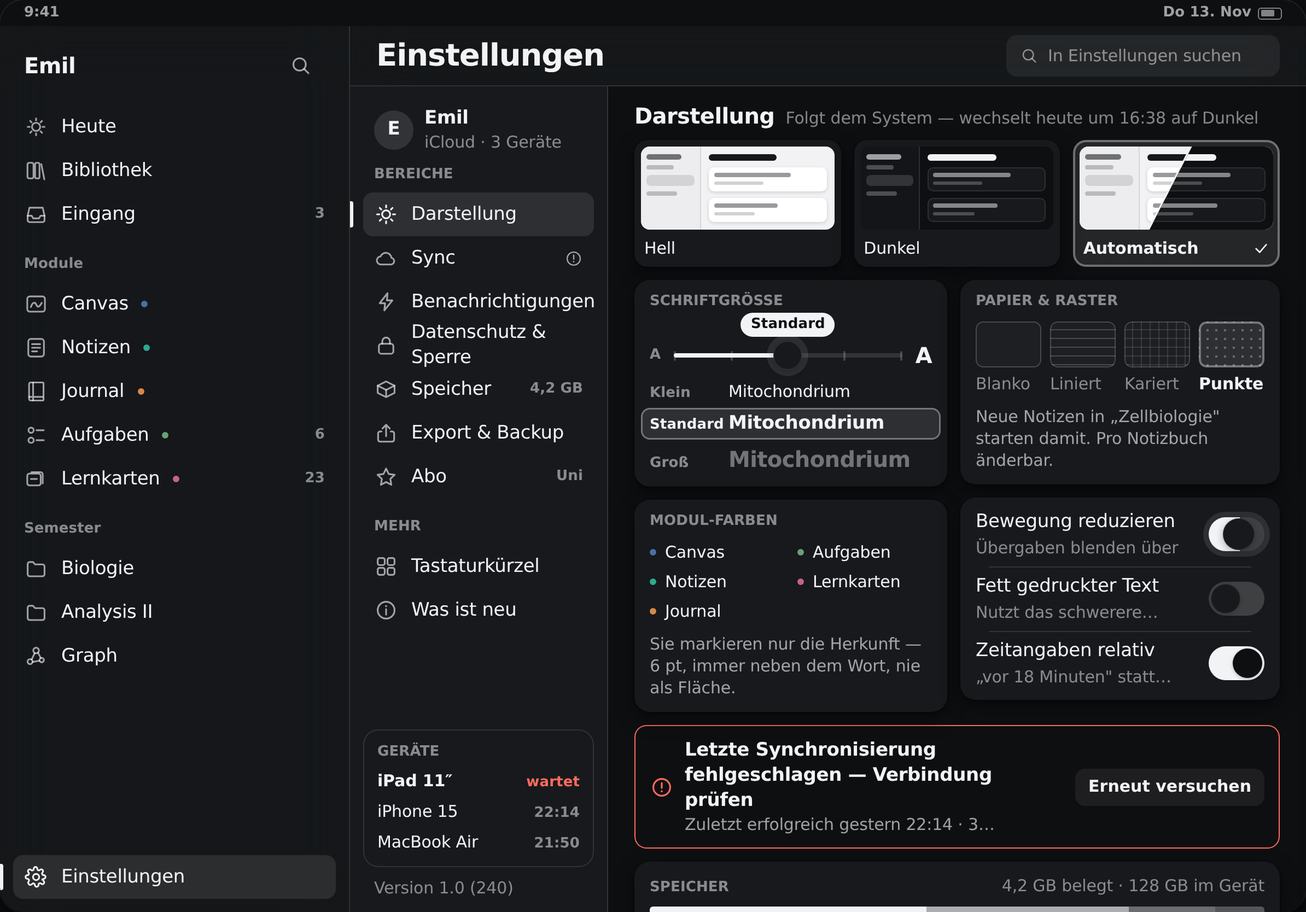
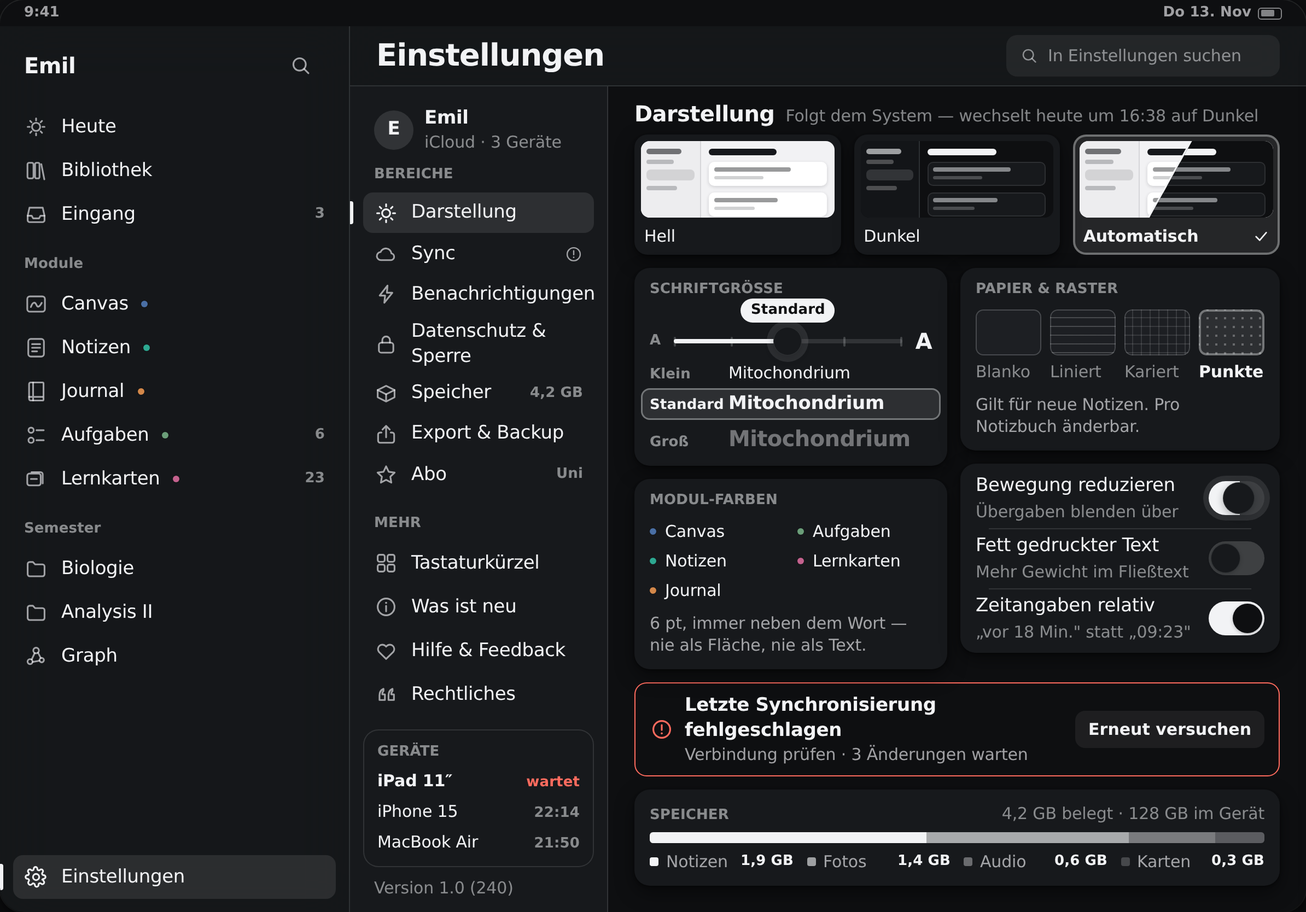
Einstellungen: finale Fassung des Agenten
Der Screen wurde nach meinem Zwischenstand noch einmal überarbeitet. Die
Doppelung am Schriftgrößen-Regler ist damit anders gelöst als von mir: Statt
den Chip umzubenennen, ist er entfallen — Wertblase und Zeilenbeschriftung
überlappen nachweislich nicht mehr. Meine Zwischenkorrektur war damit
hinfällig und ist entfernt.

Abschließender Prüflauf über alle 18 Mockups: keine gekappten Texte, keine
Schriftgröße außerhalb der Fünfer-Skala, keine Seitenfehler, überall beide
Größenklassen vorhanden.

Claude-Session: https://claude.ai/code/session_01JWcNAjygaW1ev1sC5tXzbz

diff --git a/mockups/app-next/settings.html b/mockups/app-next/settings.html
@@ -48,7 +48,7 @@ BEWUSST NICHT ÜBERNOMMEN
 DAS BESONDERE AN DIESEM SCHIRM
 Einstellungen zeigen bei fast allen Apps Schalter ohne Folgen. Hier steht neben
 jedem Regler seine Wirkung: Die Schriftgröße erscheint dreimal als echte Zeile
-(„Mitochondrium") in genau den Stufen der Typo-Skala. „Zeitangaben relativ"
+(„Mitochondrium", auf dem iPhone „Osmose") in genau den Stufen der Skala. „Zeitangaben relativ"
 zeigt das Ergebnis mit („vor 18 Minuten" statt „09:23"). „Bewegung reduzieren"
 sagt, was mit der Übergabe zwischen Modulen passiert — der Signatur-Animation
 dieser App. Und die Modul-Farben werden nicht angeboten, sondern erklärt: fünf
@@ -152,7 +152,7 @@ Skala selbst, keine Simulation.
               <button class="navitem is-active"><span class="ico" data-ico="sun"></span><span class="t-body">Darstellung</span></button>
               <button class="navitem"><span class="ico" data-ico="cloud"></span><span class="t-body">Sync</span><span class="navitem__count" style="color:var(--danger);display:flex;align-items:center"><span class="ico" data-ico="alert" style="width:17px;height:17px"></span></span></button>
               <button class="navitem"><span class="ico" data-ico="bolt"></span><span class="t-body">Benachrichtigungen</span></button>
-              <button class="navitem"><span class="ico" data-ico="lock"></span><span class="t-body">Datenschutz &amp; Sperre</span></button>
+              <button class="navitem" style="height:auto; min-height:40px; padding:5px 10px"><span class="ico" data-ico="lock"></span><span class="t-body">Datenschutz &amp; Sperre</span></button>
               <button class="navitem"><span class="ico" data-ico="box"></span><span class="t-body">Speicher</span><span class="navitem__count t-label num">4,2 GB</span></button>
               <button class="navitem"><span class="ico" data-ico="share"></span><span class="t-body">Export &amp; Backup</span></button>
               <button class="navitem"><span class="ico" data-ico="star"></span><span class="t-body">Abo</span><span class="navitem__count t-label">Uni</span></button>
@@ -161,6 +161,8 @@ Skala selbst, keine Simulation.
                 <div class="sidebar__grouptitle t-label">MEHR</div>
                 <button class="navitem"><span class="ico" data-ico="grid"></span><span class="t-body">Tastaturkürzel</span></button>
                 <button class="navitem"><span class="ico" data-ico="info"></span><span class="t-body">Was ist neu</span></button>
+                <button class="navitem"><span class="ico" data-ico="heart"></span><span class="t-body">Hilfe &amp; Feedback</span></button>
+                <button class="navitem"><span class="ico" data-ico="quote"></span><span class="t-body">Rechtliches</span></button>
               </div>
 
               <!-- Geräte — füllt den Fuß der Spalte und erklärt den Sync-Fehler -->
@@ -188,11 +190,11 @@ Skala selbst, keine Simulation.
 
             <!-- ── Bereich „Darstellung" ── -->
             <div class="content">
-              <div class="scroll" style="padding:14px 24px 16px; display:flex; flex-direction:column; gap:12px">
+              <div class="scroll" style="padding:12px 24px 14px; display:flex; flex-direction:column; gap:12px">
 
                 <!-- ══ Design: drei echte Mini-Screens ══ -->
                 <section>
-                  <div style="display:flex; align-items:baseline; gap:10px; margin-bottom:9px">
+                  <div style="display:flex; align-items:baseline; gap:10px; margin-bottom:6px">
                     <span class="t-section">Darstellung</span>
                     <span class="t-sub c-3">Folgt dem System — wechselt heute um 16:38 auf Dunkel</span>
                   </div>
@@ -200,7 +202,7 @@ Skala selbst, keine Simulation.
 
                     <!-- Hell -->
                     <button style="text-align:left; padding:6px; border-radius:12px; background:var(--paper); box-shadow:var(--sh-card)">
-                      <div style="position:relative; height:76px; border-radius:8px; overflow:hidden; box-shadow:inset 0 0 0 1px rgba(22,24,28,.16)">
+                      <div style="position:relative; height:70px; border-radius:8px; overflow:hidden; box-shadow:inset 0 0 0 1px rgba(22,24,28,.16)">
                         <div style="position:absolute; inset:0; display:flex; background:#F2F2F4">
                           <div style="width:31%; background:#EDEDEF; border-right:1px solid rgba(22,24,28,.10); padding:7px 5px; display:flex; flex-direction:column; gap:5px">
                             <div style="height:5px;width:74%;border-radius:3px;background:rgba(22,24,28,.58)"></div>
@@ -226,7 +228,7 @@ Skala selbst, keine Simulation.
 
                     <!-- Dunkel -->
                     <button style="text-align:left; padding:6px; border-radius:12px; background:var(--paper); box-shadow:var(--sh-card)">
-                      <div style="position:relative; height:76px; border-radius:8px; overflow:hidden; box-shadow:inset 0 0 0 1px rgba(22,24,28,.16)">
+                      <div style="position:relative; height:70px; border-radius:8px; overflow:hidden; box-shadow:inset 0 0 0 1px rgba(22,24,28,.16)">
                         <div style="position:absolute; inset:0; display:flex; background:#0E0F11">
                           <div style="width:31%; background:#131518; border-right:1px solid rgba(242,243,245,.12); padding:7px 5px; display:flex; flex-direction:column; gap:5px">
                             <div style="height:5px;width:74%;border-radius:3px;background:rgba(242,243,245,.62)"></div>
@@ -253,7 +255,7 @@ Skala selbst, keine Simulation.
                     <!-- Automatisch — ausgewählt: Fläche + Ring + Häkchen.
                          Die Kachel zeigt die Überblendung eingefroren. -->
                     <button style="text-align:left; padding:6px; border-radius:12px; background:var(--accent-soft); box-shadow:inset 0 0 0 2px var(--accent-ring)">
-                      <div style="position:relative; height:76px; border-radius:8px; overflow:hidden; box-shadow:inset 0 0 0 1px rgba(22,24,28,.16)">
+                      <div style="position:relative; height:70px; border-radius:8px; overflow:hidden; box-shadow:inset 0 0 0 1px rgba(22,24,28,.16)">
                         <!-- untere Ebene: HELL -->
                         <div style="position:absolute; inset:0; display:flex; background:#F2F2F4">
                           <div style="width:31%; background:#EDEDEF; border-right:1px solid rgba(22,24,28,.10); padding:7px 5px; display:flex; flex-direction:column; gap:5px">
@@ -316,7 +318,7 @@ Skala selbst, keine Simulation.
                       <div class="t-label c-3">SCHRIFTGRÖSSE</div>
 
                       <!-- Regler — Knopf angehoben, Wertblase: er wird gerade gezogen -->
-                      <div style="display:flex; align-items:center; gap:12px; margin:28px 0 10px">
+                      <div style="display:flex; align-items:center; gap:12px; margin:26px 0 6px">
                         <span class="t-label c-3">A</span>
                         <div style="position:relative; flex:1; height:26px; display:flex; align-items:center">
                           <div style="position:absolute; left:0; right:0; height:4px; border-radius:2px; background:var(--fill-2)"></div>
@@ -338,7 +340,7 @@ Skala selbst, keine Simulation.
                         <span class="t-label c-3" style="width:62px; flex:none">Klein</span>
                         <span class="t-sub clamp-1">Mitochondrium</span>
                       </div>
-                      <div style="display:flex; align-items:baseline; gap:10px; padding:3px 8px; margin:5px -8px; border-radius:8px; background:var(--accent-soft); box-shadow:inset 0 0 0 1.5px var(--accent-ring)">
+                      <div style="display:flex; align-items:baseline; gap:10px; padding:3px 8px; margin:4px -8px; border-radius:8px; background:var(--accent-soft); box-shadow:inset 0 0 0 1.5px var(--accent-ring)">
                         <span class="t-label c-1" style="width:62px; flex:none">Standard</span>
                         <span class="t-body is-strong clamp-1">Mitochondrium</span>
                       </div>
@@ -358,7 +360,7 @@ Skala selbst, keine Simulation.
                         <span style="display:flex; align-items:center; gap:8px"><span class="dot dot--cards"></span><span class="t-sub">Lernkarten</span></span>
                         <span style="display:flex; align-items:center; gap:8px"><span class="dot dot--journal"></span><span class="t-sub">Journal</span></span>
                       </div>
-                      <p class="t-sub c-2" style="margin:10px 0 0">Sie markieren nur die Herkunft — 6 pt, immer neben dem Wort, nie als Fläche.</p>
+                      <p class="t-sub c-2" style="margin:10px 0 0">6 pt, immer neben dem Wort — nie als Fläche, nie als Text.</p>
                     </section>
                   </div>
 
@@ -386,12 +388,12 @@ Skala selbst, keine Simulation.
                           <div class="t-sub is-strong" style="margin-top:5px">Punkte</div>
                         </div>
                       </div>
-                      <p class="t-sub c-2" style="margin:10px 0 0">Neue Notizen in „Zellbiologie" starten damit. Pro Notizbuch änderbar.</p>
+                      <p class="t-sub c-2" style="margin:10px 0 0">Gilt für neue Notizen. Pro Notizbuch änderbar.</p>
                     </section>
 
                     <!-- Schalter -->
                     <section class="card" style="padding:4px 14px">
-                      <div class="row" style="padding:7px 0">
+                      <div class="row" style="padding:5px 0">
                         <div class="row__main">
                           <span class="t-body">Bewegung reduzieren</span>
                           <span class="t-sub c-3 clamp-1">Übergaben blenden über</span>
@@ -401,19 +403,19 @@ Skala selbst, keine Simulation.
                           <span style="position:absolute;top:1px;left:13px;width:29px;height:29px;border-radius:50%;background:var(--paper);box-shadow:0 2px 7px rgba(22,24,28,.32), inset 0 0 0 .5px var(--line)"></span>
                         </span>
                       </div>
-                      <div class="row" style="padding:7px 0">
+                      <div class="row" style="padding:5px 0">
                         <div class="row__main">
                           <span class="t-body">Fett gedruckter Text</span>
-                          <span class="t-sub c-3 clamp-1">Nutzt das schwerere Gewicht</span>
+                          <span class="t-sub c-3 clamp-1">Mehr Gewicht im Fließtext</span>
                         </div>
                         <span style="width:51px;height:31px;border-radius:var(--r-pill);flex:none;position:relative;background:var(--fill-3)">
                           <span style="position:absolute;top:2px;left:2px;width:27px;height:27px;border-radius:50%;background:var(--paper);box-shadow:0 1px 3px rgba(22,24,28,.26), inset 0 0 0 .5px var(--line)"></span>
                         </span>
                       </div>
-                      <div class="row" style="padding:7px 0">
+                      <div class="row" style="padding:5px 0">
                         <div class="row__main">
                           <span class="t-body">Zeitangaben relativ</span>
-                          <span class="t-sub c-3 clamp-1">„vor 18 Minuten" statt „09:23"</span>
+                          <span class="t-sub c-3 clamp-1">„vor 18 Min." statt „09:23"</span>
                         </div>
                         <span style="width:51px;height:31px;border-radius:var(--r-pill);flex:none;position:relative;background:var(--accent)">
                           <span style="position:absolute;top:2px;left:22px;width:27px;height:27px;border-radius:50%;background:var(--accent-on);box-shadow:0 1px 3px rgba(22,24,28,.26)"></span>
@@ -424,32 +426,32 @@ Skala selbst, keine Simulation.
                 </div>
 
                 <!-- ══ Sync-Fehler ══ -->
-                <div class="notice notice--error" style="align-items:center">
+                <div class="notice notice--error" style="align-items:center; padding:10px 14px">
                   <span class="ico" data-ico="alert"></span>
                   <div class="notice__text" style="flex:1; min-width:0">
-                    <div class="t-body is-strong">Letzte Synchronisierung fehlgeschlagen — Verbindung prüfen</div>
-                    <div class="t-sub c-2 clamp-1">Zuletzt erfolgreich gestern 22:14 · 3 Änderungen warten</div>
+                    <div class="t-body is-strong">Letzte Synchronisierung fehlgeschlagen</div>
+                    <div class="t-sub c-2 clamp-1">Verbindung prüfen · 3 Änderungen warten</div>
                   </div>
                   <button class="btn btn--sm" style="flex:none">Erneut versuchen</button>
                 </div>
 
                 <!-- ══ Speicher ══ -->
                 <section class="card" style="padding:12px 14px">
-                  <div style="display:flex; align-items:baseline; gap:10px; margin-bottom:9px">
+                  <div style="display:flex; align-items:baseline; gap:10px; margin-bottom:7px">
                     <span class="t-label c-3" style="flex:1">SPEICHER</span>
                     <span class="t-sub c-3 num">4,2 GB belegt · 128 GB im Gerät</span>
                   </div>
                   <div class="bar" style="height:10px; display:flex; gap:0">
                     <span style="width:45%; height:100%; background:var(--ink-1)"></span>
-                    <span style="width:33%; height:100%; background:var(--ink-2)"></span>
-                    <span style="width:14%; height:100%; background:var(--ink-4)"></span>
-                    <span style="width:8%;  height:100%; background:var(--fill-3)"></span>
+                    <span style="width:33%; height:100%; background:var(--ink-1); opacity:.62"></span>
+                    <span style="width:14%; height:100%; background:var(--ink-1); opacity:.38"></span>
+                    <span style="width:8%;  height:100%; background:var(--ink-1); opacity:.22"></span>
                   </div>
-                  <div style="display:grid; grid-template-columns:1fr 1fr 1fr 1fr; gap:12px; margin-top:9px">
+                  <div style="display:grid; grid-template-columns:1fr 1fr 1fr 1fr; gap:12px; margin-top:7px">
                     <span style="display:flex; align-items:center; gap:7px"><span style="width:8px;height:8px;border-radius:2px;background:var(--ink-1);flex:none"></span><span class="t-sub c-2" style="flex:1">Notizen</span><span class="t-label num">1,9 GB</span></span>
-                    <span style="display:flex; align-items:center; gap:7px"><span style="width:8px;height:8px;border-radius:2px;background:var(--ink-2);flex:none"></span><span class="t-sub c-2" style="flex:1">Fotos</span><span class="t-label num">1,4 GB</span></span>
-                    <span style="display:flex; align-items:center; gap:7px"><span style="width:8px;height:8px;border-radius:2px;background:var(--ink-4);flex:none"></span><span class="t-sub c-2" style="flex:1">Audio</span><span class="t-label num">0,6 GB</span></span>
-                    <span style="display:flex; align-items:center; gap:7px"><span style="width:8px;height:8px;border-radius:2px;background:var(--fill-3);flex:none"></span><span class="t-sub c-2" style="flex:1">Lernkarten</span><span class="t-label num">0,3 GB</span></span>
+                    <span style="display:flex; align-items:center; gap:7px"><span style="width:8px;height:8px;border-radius:2px;background:var(--ink-1);opacity:.62;flex:none"></span><span class="t-sub c-2" style="flex:1">Fotos</span><span class="t-label num">1,4 GB</span></span>
+                    <span style="display:flex; align-items:center; gap:7px"><span style="width:8px;height:8px;border-radius:2px;background:var(--ink-1);opacity:.38;flex:none"></span><span class="t-sub c-2" style="flex:1">Audio</span><span class="t-label num">0,6 GB</span></span>
+                    <span style="display:flex; align-items:center; gap:7px"><span style="width:8px;height:8px;border-radius:2px;background:var(--ink-1);opacity:.22;flex:none"></span><span class="t-sub c-2" style="flex:1">Karten</span><span class="t-label num">0,3 GB</span></span>
                   </div>
                 </section>
 
@@ -480,11 +482,11 @@ Skala selbst, keine Simulation.
         <div class="scroll" style="padding:10px 20px 12px; display:flex; flex-direction:column; gap:10px">
 
           <!-- Fehlerzustand als Banner ganz oben -->
-          <div class="notice notice--error" style="align-items:center; padding:9px 12px">
+          <div class="notice notice--error" style="align-items:center; padding:8px 12px">
             <span class="ico" data-ico="alert" style="width:20px;height:20px"></span>
             <div class="notice__text" style="flex:1; min-width:0">
               <div class="t-sub is-strong clamp-1">Sync fehlgeschlagen</div>
-              <div class="t-sub c-2 clamp-1">Verbindung prüfen · 3 warten</div>
+              <div class="t-sub c-2 clamp-1">Verbindung prüfen</div>
             </div>
             <button class="btn btn--sm" style="flex:none; height:30px; padding:0 11px">Erneut</button>
           </div>
@@ -496,7 +498,7 @@ Skala selbst, keine Simulation.
 
               <!-- Hell -->
               <button style="text-align:left; padding:5px; border-radius:11px; background:var(--paper); box-shadow:var(--sh-card)">
-                <div style="position:relative; height:58px; border-radius:7px; overflow:hidden; box-shadow:inset 0 0 0 1px rgba(22,24,28,.16); background:#F2F2F4">
+                <div style="position:relative; height:50px; border-radius:7px; overflow:hidden; box-shadow:inset 0 0 0 1px rgba(22,24,28,.16); background:#F2F2F4">
                   <div style="position:absolute; inset:0; padding:6px 6px 0; display:flex; flex-direction:column; gap:4px">
                     <div style="height:5px;width:56%;border-radius:3px;background:#16181C"></div>
                     <div style="height:14px;border-radius:4px;background:#FFFFFF;box-shadow:0 1px 2px rgba(22,24,28,.16)"></div>
@@ -514,7 +516,7 @@ Skala selbst, keine Simulation.
 
               <!-- Dunkel -->
               <button style="text-align:left; padding:5px; border-radius:11px; background:var(--paper); box-shadow:var(--sh-card)">
-                <div style="position:relative; height:58px; border-radius:7px; overflow:hidden; box-shadow:inset 0 0 0 1px rgba(22,24,28,.16); background:#0E0F11">
+                <div style="position:relative; height:50px; border-radius:7px; overflow:hidden; box-shadow:inset 0 0 0 1px rgba(22,24,28,.16); background:#0E0F11">
                   <div style="position:absolute; inset:0; padding:6px 6px 0; display:flex; flex-direction:column; gap:4px">
                     <div style="height:5px;width:56%;border-radius:3px;background:#F2F3F5"></div>
                     <div style="height:14px;border-radius:4px;background:#17191C;box-shadow:inset 0 0 0 1px rgba(242,243,245,.10)"></div>
@@ -532,7 +534,7 @@ Skala selbst, keine Simulation.
 
               <!-- Automatisch — ausgewählt, Überblendung eingefroren -->
               <button style="text-align:left; padding:5px; border-radius:11px; background:var(--accent-soft); box-shadow:inset 0 0 0 2px var(--accent-ring)">
-                <div style="position:relative; height:58px; border-radius:7px; overflow:hidden; box-shadow:inset 0 0 0 1px rgba(22,24,28,.16); background:#F2F2F4">
+                <div style="position:relative; height:50px; border-radius:7px; overflow:hidden; box-shadow:inset 0 0 0 1px rgba(22,24,28,.16); background:#F2F2F4">
                   <div style="position:absolute; inset:0; padding:6px 6px 0; display:flex; flex-direction:column; gap:4px">
                     <div style="height:5px;width:56%;border-radius:3px;background:#16181C"></div>
                     <div style="height:14px;border-radius:4px;background:#FFFFFF;box-shadow:0 1px 2px rgba(22,24,28,.16)"></div>
@@ -565,7 +567,7 @@ Skala selbst, keine Simulation.
           <!-- Schriftgröße -->
           <section class="card" style="padding:11px 14px 12px">
             <div class="t-label c-3">SCHRIFTGRÖSSE</div>
-            <div style="display:flex; align-items:center; gap:10px; margin:26px 0 10px">
+            <div style="display:flex; align-items:center; gap:10px; margin:26px 0 8px">
               <span class="t-label c-3">A</span>
               <div style="position:relative; flex:1; height:26px; display:flex; align-items:center">
                 <div style="position:absolute; left:0; right:0; height:4px; border-radius:2px; background:var(--fill-2)"></div>
@@ -608,7 +610,7 @@ Skala selbst, keine Simulation.
                 <span class="ico" data-ico="chevR" style="width:16px;height:16px"></span>
               </div>
             </div>
-            <div class="row" style="padding:7px 0">
+            <div class="row" style="padding:5px 0">
               <div class="row__main">
                 <span class="t-body">Modul-Farben</span>
                 <span style="display:flex; flex-wrap:wrap; gap:3px 11px; margin-top:3px">
@@ -621,7 +623,11 @@ Skala selbst, keine Simulation.
               </div>
               <div class="row__meta"><span class="ico" data-ico="chevR" style="width:16px;height:16px"></span></div>
             </div>
-            <div class="row" style="padding:6px 0">
+          </section>
+
+          <!-- Schalter -->
+          <section class="card" style="padding:2px 14px">
+            <div class="row" style="padding:5px 0">
               <div class="row__main">
                 <span class="t-body">Bewegung reduzieren</span>
                 <span class="t-sub c-3 clamp-1">Übergaben blenden über</span>
@@ -631,13 +637,13 @@ Skala selbst, keine Simulation.
                 <span style="position:absolute;top:1px;left:13px;width:29px;height:29px;border-radius:50%;background:var(--paper);box-shadow:0 2px 7px rgba(22,24,28,.32), inset 0 0 0 .5px var(--line)"></span>
               </span>
             </div>
-            <div class="row" style="padding:6px 0; min-height:46px">
+            <div class="row" style="padding:5px 0; min-height:46px">
               <div class="row__main"><span class="t-body">Fett gedruckter Text</span></div>
               <span style="width:51px;height:31px;border-radius:var(--r-pill);flex:none;position:relative;background:var(--fill-3)">
                 <span style="position:absolute;top:2px;left:2px;width:27px;height:27px;border-radius:50%;background:var(--paper);box-shadow:0 1px 3px rgba(22,24,28,.26), inset 0 0 0 .5px var(--line)"></span>
               </span>
             </div>
-            <div class="row" style="padding:6px 0">
+            <div class="row" style="padding:5px 0">
               <div class="row__main">
                 <span class="t-body">Zeitangaben relativ</span>
                 <span class="t-sub c-3 clamp-1">„vor 18 Minuten" statt „09:23"</span>
@@ -648,23 +654,23 @@ Skala selbst, keine Simulation.
             </div>
           </section>
 
-          <!-- Speicher -->
-          <section class="card" style="padding:11px 14px 12px">
+          <!-- Speicher — beginnt unterhalb der Falz; die Liste scrollt weiter -->
+          <section class="card" style="margin-top:14px; padding:11px 14px 12px">
             <div style="display:flex; align-items:baseline; gap:8px; margin-bottom:8px">
               <span class="t-label c-3" style="flex:1">SPEICHER</span>
               <span class="t-sub c-3 num">4,2 von 128 GB</span>
             </div>
             <div class="bar" style="height:10px; display:flex; gap:0">
               <span style="width:45%; height:100%; background:var(--ink-1)"></span>
-              <span style="width:33%; height:100%; background:var(--ink-2)"></span>
-              <span style="width:14%; height:100%; background:var(--ink-4)"></span>
-              <span style="width:8%;  height:100%; background:var(--fill-3)"></span>
+              <span style="width:33%; height:100%; background:var(--ink-1); opacity:.62"></span>
+              <span style="width:14%; height:100%; background:var(--ink-1); opacity:.38"></span>
+              <span style="width:8%;  height:100%; background:var(--ink-1); opacity:.22"></span>
             </div>
             <div style="display:grid; grid-template-columns:1fr 1fr; gap:5px 14px; margin-top:8px">
               <span style="display:flex; align-items:center; gap:7px"><span style="width:8px;height:8px;border-radius:2px;background:var(--ink-1);flex:none"></span><span class="t-sub c-2" style="flex:1">Notizen</span><span class="t-label num">1,9 GB</span></span>
-              <span style="display:flex; align-items:center; gap:7px"><span style="width:8px;height:8px;border-radius:2px;background:var(--ink-2);flex:none"></span><span class="t-sub c-2" style="flex:1">Fotos</span><span class="t-label num">1,4 GB</span></span>
-              <span style="display:flex; align-items:center; gap:7px"><span style="width:8px;height:8px;border-radius:2px;background:var(--ink-4);flex:none"></span><span class="t-sub c-2" style="flex:1">Audio</span><span class="t-label num">0,6 GB</span></span>
-              <span style="display:flex; align-items:center; gap:7px"><span style="width:8px;height:8px;border-radius:2px;background:var(--fill-3);flex:none"></span><span class="t-sub c-2" style="flex:1">Lernkarten</span><span class="t-label num">0,3 GB</span></span>
+              <span style="display:flex; align-items:center; gap:7px"><span style="width:8px;height:8px;border-radius:2px;background:var(--ink-1);opacity:.62;flex:none"></span><span class="t-sub c-2" style="flex:1">Fotos</span><span class="t-label num">1,4 GB</span></span>
+              <span style="display:flex; align-items:center; gap:7px"><span style="width:8px;height:8px;border-radius:2px;background:var(--ink-1);opacity:.38;flex:none"></span><span class="t-sub c-2" style="flex:1">Audio</span><span class="t-label num">0,6 GB</span></span>
+              <span style="display:flex; align-items:center; gap:7px"><span style="width:8px;height:8px;border-radius:2px;background:var(--ink-1);opacity:.22;flex:none"></span><span class="t-sub c-2" style="flex:1">Karten</span><span class="t-label num">0,3 GB</span></span>
             </div>
           </section>
 
@@ -739,9 +745,10 @@ Skala selbst, keine Simulation.
     <tr><td>gefüllt</td><td>Der gezeigte Zustand: Design „Automatisch", Schrift „Standard", Papier „Punkte", drei Schalter, 4,2 GB belegt.</td></tr>
     <tr><td>aktiv</td><td>„Einstellungen" in der App-Sidebar und „Darstellung" in der Bereichsliste: Fläche + Gewicht + Ink-Balken links — drei Merkmale, keine Farbe.</td></tr>
     <tr><td>ausgewählt</td><td>Design-Kachel „Automatisch" und Papier „Punkte": getönte Fläche + 2-pt-Ring + Häkchen bzw. Gewicht.</td></tr>
-    <tr><td>Fehler</td><td><strong>Sync:</strong> <code>.notice--error</code> — „Letzte Synchronisierung fehlgeschlagen — Verbindung prüfen", mit dem Zeitpunkt des letzten Erfolgs, den drei wartenden Änderungen und dem Knopf „Erneut versuchen". Derselbe Fehler ist an drei Stellen sichtbar: im Banner, als rotes Zeichen neben „Sync" in der Bereichsliste und als „wartet" in der Geräteliste — so findet man ihn auch, wenn man von woanders kommt.</td></tr>
+    <tr><td>Fehler</td><td><strong>Sync:</strong> <code>.notice--error</code> — „Letzte Synchronisierung fehlgeschlagen", darunter „Verbindung prüfen · 3 Änderungen warten" und rechts der Knopf „Erneut versuchen". Der Satz steht bewusst auf zwei Zeilen: „Synchronisierung" ist so lang, dass eine einzige Zeile dreizeilig umbrechen würde. Derselbe Fehler ist an drei Stellen sichtbar — im Banner, als rotes Zeichen neben „Sync" in der Bereichsliste und als „wartet" in der Geräteliste. So findet man ihn auch, wenn man von woanders kommt.</td></tr>
     <tr><td>Zwischenzustand</td><td><strong>Der Schalter „Bewegung reduzieren" steht mitten im Umlegen</strong> — die Spur ist zu 56 % gefüllt, der Knopf sitzt zwischen den Positionen, um ihn liegt der Druck-Ring. Zweiter Zwischenzustand: Der Schriftgrößen-Regler wird gerade gezogen — der Knopf ist angehoben (Schatten + Ring), darüber steht die Wertblase „Standard". Dritter: Die Kachel „Automatisch" zeigt die Überblendung zwischen Hell und Dunkel eingefroren, mit hellem Grat an der Naht.</td></tr>
     <tr><td>nicht gewählt</td><td>Die Vorschauzeile „Groß" liegt auf 42 % Deckkraft und trägt keine Fläche — die beiden Merkmale für „aus".</td></tr>
+    <tr><td>scrollt weiter</td><td>Auf dem iPhone endet der sichtbare Bereich sauber unter der Schalter-Gruppe. „Speicher" und die übrigen Bereiche (Sync, Benachrichtigungen, Datenschutz &amp; Sperre, Export &amp; Backup, Abo) stehen darunter in derselben Liste — auf dem iPad sind sie gleichzeitig sichtbar, weil die Fläche es hergibt. Beide Geräte erlauben dieselbe Aufgabe, das iPhone kostet keinen zusätzlichen Tipp.</td></tr>
   </table>
 
   <h3>Warum award-würdig</h3>
